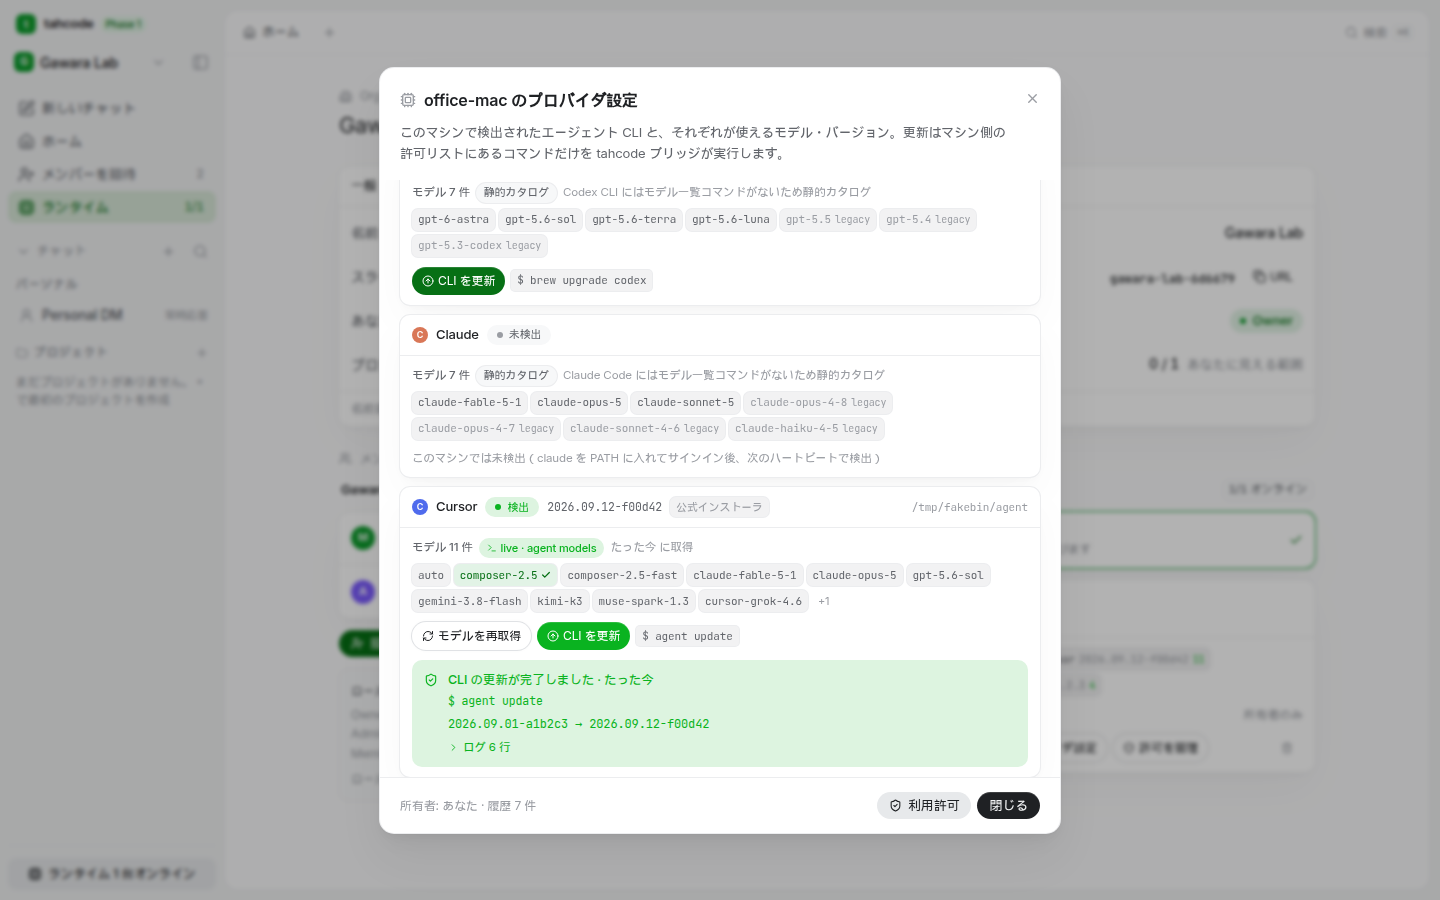
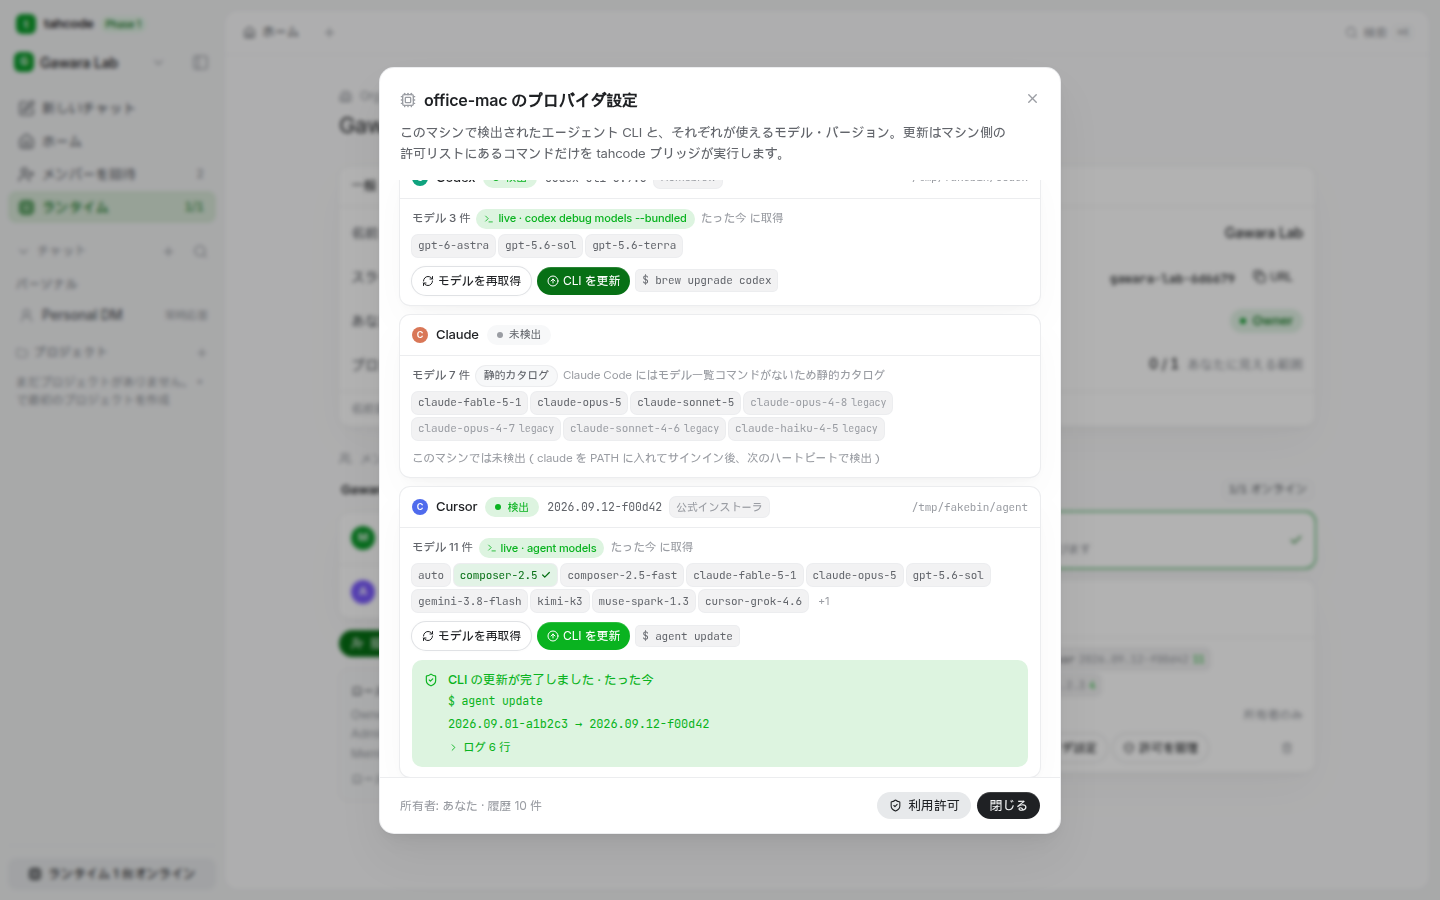
Codex live model discovery via codex debug models --bundled (Multica's hook); refresh screenshots

Changed region(s): [[0.2812, 0.1867, 0.5938, 0.3422], [0.3438, 0.8711, 0.375, 0.9022]]

diff --git a/shared/providerMaintenance.ts b/shared/providerMaintenance.ts
@@ -5,10 +5,11 @@
  * Two things live here and nothing else:
  *
  * 1. **Live model discovery** — which CLIs can list their own model catalog
- *    (`agent models`, `opencode models`, `grok models`, verified against each
- *    CLI's reference docs) and how to parse that output. Codex and Claude have
- *    no such command, so they stay on the static catalog in
- *    `shared/providers.ts`, the same fallback Multica's `models.go` uses.
+ *    (`agent models`, `opencode models`, `grok models` per each CLI's reference
+ *    docs; `codex debug models --bundled` as Multica's `models.go` does) and
+ *    how to parse that output. Claude has no such command (Multica drives a
+ *    stream-json control request instead), so it stays on the static catalog
+ *    in `shared/providers.ts`, the same fallback Multica uses.
  *
  * 2. **CLI update plans** — the exact argv a bridge is allowed to run to
  *    update a provider CLI. The server never sends a command string: it sends
@@ -74,8 +75,10 @@ type ProviderMaintenanceEntry = {
 
 export const PROVIDER_MAINTENANCE: Record<ProviderDriverKind, ProviderMaintenanceEntry> = {
   codex: {
-    modelsArgv: null,
-    modelsHint: "Codex CLI にはモデル一覧コマンドがないため静的カタログ（t3code model-manifest）",
+    // Codex 0.122.0+ ships a structured, offline catalog dump (JSON on stdout);
+    // Multica's daemon uses the same hook. Older binaries fail → static fallback.
+    modelsArgv: ["debug", "models", "--bundled"],
+    modelsHint: "codex debug models --bundled（Codex 0.122.0 以降。古い CLI は静的カタログ）",
     selfUpdateArgv: null,
     npmPackage: "@openai/codex",
     brewName: "codex",
@@ -211,6 +214,8 @@ function candidateFromJson(value: unknown): LiveModel | null {
   if (typeof value === "string") return isValidModelSlug(value) ? { slug: value } : null;
   if (typeof value !== "object" || value === null) return null;
   const record = value as Record<string, unknown>;
+  // `codex debug models` lists hidden entries too; Codex's own picker skips them.
+  if (record.visibility === "hide" || record.hidden === true) return null;
   const slugField = [record.id, record.slug, record.model, record.value, record.name].find((field) => typeof field === "string" && isValidModelSlug(field));
   if (typeof slugField !== "string") return null;
   const nameField = [record.displayName, record.display_name, record.label, record.title, record.name].find(

diff --git a/tests/provider-maintenance.test.ts b/tests/provider-maintenance.test.ts
@@ -49,6 +49,20 @@ describe("parseModelListOutput", () => {
     expect(parseModelListOutput("grok", JSON.stringify({ models: [{ name: "grok-4.6" }] }))).toEqual([{ slug: "grok-4.6" }]);
   });
 
+  it("reads `codex debug models --bundled` JSON and skips hidden entries (Multica's shape)", () => {
+    const out = JSON.stringify({
+      models: [
+        { slug: "gpt-6-astra", display_name: "GPT-6 Astra", visibility: "list", default_reasoning_level: "high" },
+        { slug: "gpt-5.6-sol", display_name: "GPT-5.6 Sol", visibility: "list" },
+        { slug: "gpt-5.3-codex", display_name: "GPT-5.3 Codex", visibility: "hide" },
+      ],
+    });
+    expect(parseModelListOutput("codex", out)).toEqual([
+      { slug: "gpt-6-astra", name: "GPT-6 Astra" },
+      { slug: "gpt-5.6-sol", name: "GPT-5.6 Sol" },
+    ]);
+  });
+
   it("returns [] for error prose so callers fall back to the static catalog", () => {
     expect(parseModelListOutput("cursor", "Error: not logged in. Run agent login first.")).toEqual([]);
     expect(parseModelListOutput("opencode", "")).toEqual([]);
@@ -56,11 +70,12 @@ describe("parseModelListOutput", () => {
 });
 
 describe("live model discovery table", () => {
-  it("only Cursor, Grok and OpenCode have a models command; Codex / Claude / Antigravity are static", () => {
-    expect(PROVIDER_DRIVER_KINDS.filter(supportsLiveModels)).toEqual(["cursor", "grok", "opencode"]);
+  it("Codex, Cursor, Grok and OpenCode have a models command; Claude / Antigravity are static", () => {
+    expect(PROVIDER_DRIVER_KINDS.filter(supportsLiveModels)).toEqual(["codex", "cursor", "grok", "opencode"]);
     expect(modelsCommandLabel("cursor")).toBe("agent models");
+    expect(modelsCommandLabel("codex")).toBe("codex debug models --bundled");
     expect(modelsCommandLabel("opencode", "/usr/local/bin/opencode")).toBe("/usr/local/bin/opencode models");
-    expect(modelsCommandLabel("codex")).toBeNull();
+    expect(modelsCommandLabel("claudeAgent")).toBeNull();
   });
 });
 

diff --git a/README.md b/README.md
@@ -98,7 +98,7 @@ Dark Green+ の生トークンを `--dg-*` として保持し、Beautiful UI の
 
 ### マシンのプロバイダ設定（モデル・バージョン・CLI 更新）
 
-Multica の「ランタイムごとに使えるエージェントとモデルを見せる」型を踏襲した、マシン単位の設定画面。右レール Runtime タブ / Org 設定のマシンカードの **「プロバイダ設定」**（または CLI チップのクリック）で開く。
+Multica の型（daemon がランタイムごとに CLI を検出してバージョンを報告し、モデル一覧は各 CLI から動的に取得して静的カタログにフォールバックする）を踏襲した、マシン単位の設定画面。Multica ではモデル一覧はエージェント設定のピッカーから取得されるが、tahcode ではマシン画面にも常時表示する。右レール Runtime タブ / Org 設定のマシンカードの **「プロバイダ設定」**（または CLI チップのクリック）で開く。
 
 ![Machine provider settings: live models per CLI, versions, allowlisted update](docs/ui-screenshots/provider-settings/04-cursor-live-models.png)
 
@@ -107,11 +107,11 @@ Multica の「ランタイムごとに使えるエージェントとモデルを
 
 | プロバイダ | モデル一覧 | 更新コマンド（ブリッジの許可リスト） |
 |---|---|---|
+| Codex | **live** `codex debug models --bundled`（0.122.0+、JSON。古い CLI は静的） | npm `npm i -g @openai/codex@latest` / Homebrew `brew upgrade codex` / 判別不能なら手動案内 |
 | Cursor | **live** `agent models` | `agent update` |
 | OpenCode | **live** `opencode models`（`provider/model`） | `opencode upgrade`（CLI 側がインストール方法を判別） |
 | Grok | **live** `grok models` | npm 導入なら `npm i -g @xai-official/grok@latest`、それ以外 `grok update` |
 | Claude | 静的（一覧コマンドなし） | npm `npm i -g @anthropic-ai/claude-code@latest` / Homebrew `brew upgrade claude-code` / それ以外 `claude update` |
-| Codex | 静的（一覧コマンドなし） | npm `npm i -g @openai/codex@latest` / Homebrew `brew upgrade codex` / 判別不能なら手動案内 |
 | Antigravity | 静的 | なし（アプリ側で更新） |
 
 - **更新の流れ** — 「CLI を更新」→ Convex の `runtimeCommands` に `(updateCli, provider)` がキューされる → ブリッジが claim し、**マシン側の許可リスト**からインストール方法に応じた argv を解決して shell なしで spawn → 出力をログとして流しつつ実行 → 終了後にバージョンを再検出（`0.9.0 → 0.9.1`）、モデル一覧も再取得。UI は待機中 / 実行中（ログの末尾）/ 完了 / 失敗（終了コードと最終行、ログ展開）を同じカード内に出す。サーバはコマンド文字列を送らないので、サーバが乗っ取られても許可リスト外は走らない。「モデルを再取得」は同じ経路で一覧コマンドだけを実行する。ブリッジが落ちて 15 分報告がない実行は自動で失敗扱い（取り消しも可）。
@@ -189,7 +189,7 @@ DM で話しかけると常時応答、プロジェクトチャットでは `@co
 
 - **Antigravity**: headless CLI がないためランタイムは「未対応」表示 + ガイド文。カタログには含む。
 - **Grok headless flags**: CLI の headless 引数は暫定（`grok --prompt`、モデルは `--model`）。手元に CLI があれば `providers` コマンドで確認し、ずれていたら `runtime/src/providers.ts` の1箇所を直す。
-- **Codex / Claude のモデル一覧は静的**: 両 CLI にはモデル一覧コマンドがないため `shared/providers.ts` のスナップショット（t3code model-manifest）のまま。Cursor / Grok / OpenCode は接続中のマシンから `agent models` / `grok models` / `opencode models` の結果をライブ表示する（[マシンのプロバイダ設定](#マシンのプロバイダ設定モデルバージョンcli-更新)）。一覧外のスラッグは引き続き `@provider/<slug>` でそのまま指名できる。
+- **Claude のモデル一覧は静的**: Claude Code にはモデル一覧コマンドがないため `shared/providers.ts` のスナップショット（t3code model-manifest）のまま（Multica は stream-json の `control_request list_models` で取っているが未移植）。Codex / Cursor / Grok / OpenCode は接続中のマシンから `codex debug models --bundled` / `agent models` / `grok models` / `opencode models` の結果をライブ表示する（Codex 0.122.0 未満は静的にフォールバック）（[マシンのプロバイダ設定](#マシンのプロバイダ設定モデルバージョンcli-更新)）。一覧外のスラッグは引き続き `@provider/<slug>` でそのまま指名できる。
 - **CLI 更新は許可リストのコマンドのみ**: `shared/providerMaintenance.ts` にある各 CLI の公式更新コマンドだけをブリッジが実行する。Antigravity（CLI なし）と、インストール方法を判別できない Codex は手動更新の案内のみ。`curl | sh` 型のインストーラは実行しない。
 - **プロジェクトメンバー追加 UI なし**: private project への追加は現状 `projects:addMember` 関数呼び出し（`npx convex run` 等）。UI は Org メンバー招待・ロール・ランタイム許可まで。
 - **Org 名変更 / 削除なし**: 設定ページは表示のみ（Owner 向けの変更は後続フェーズ）。
